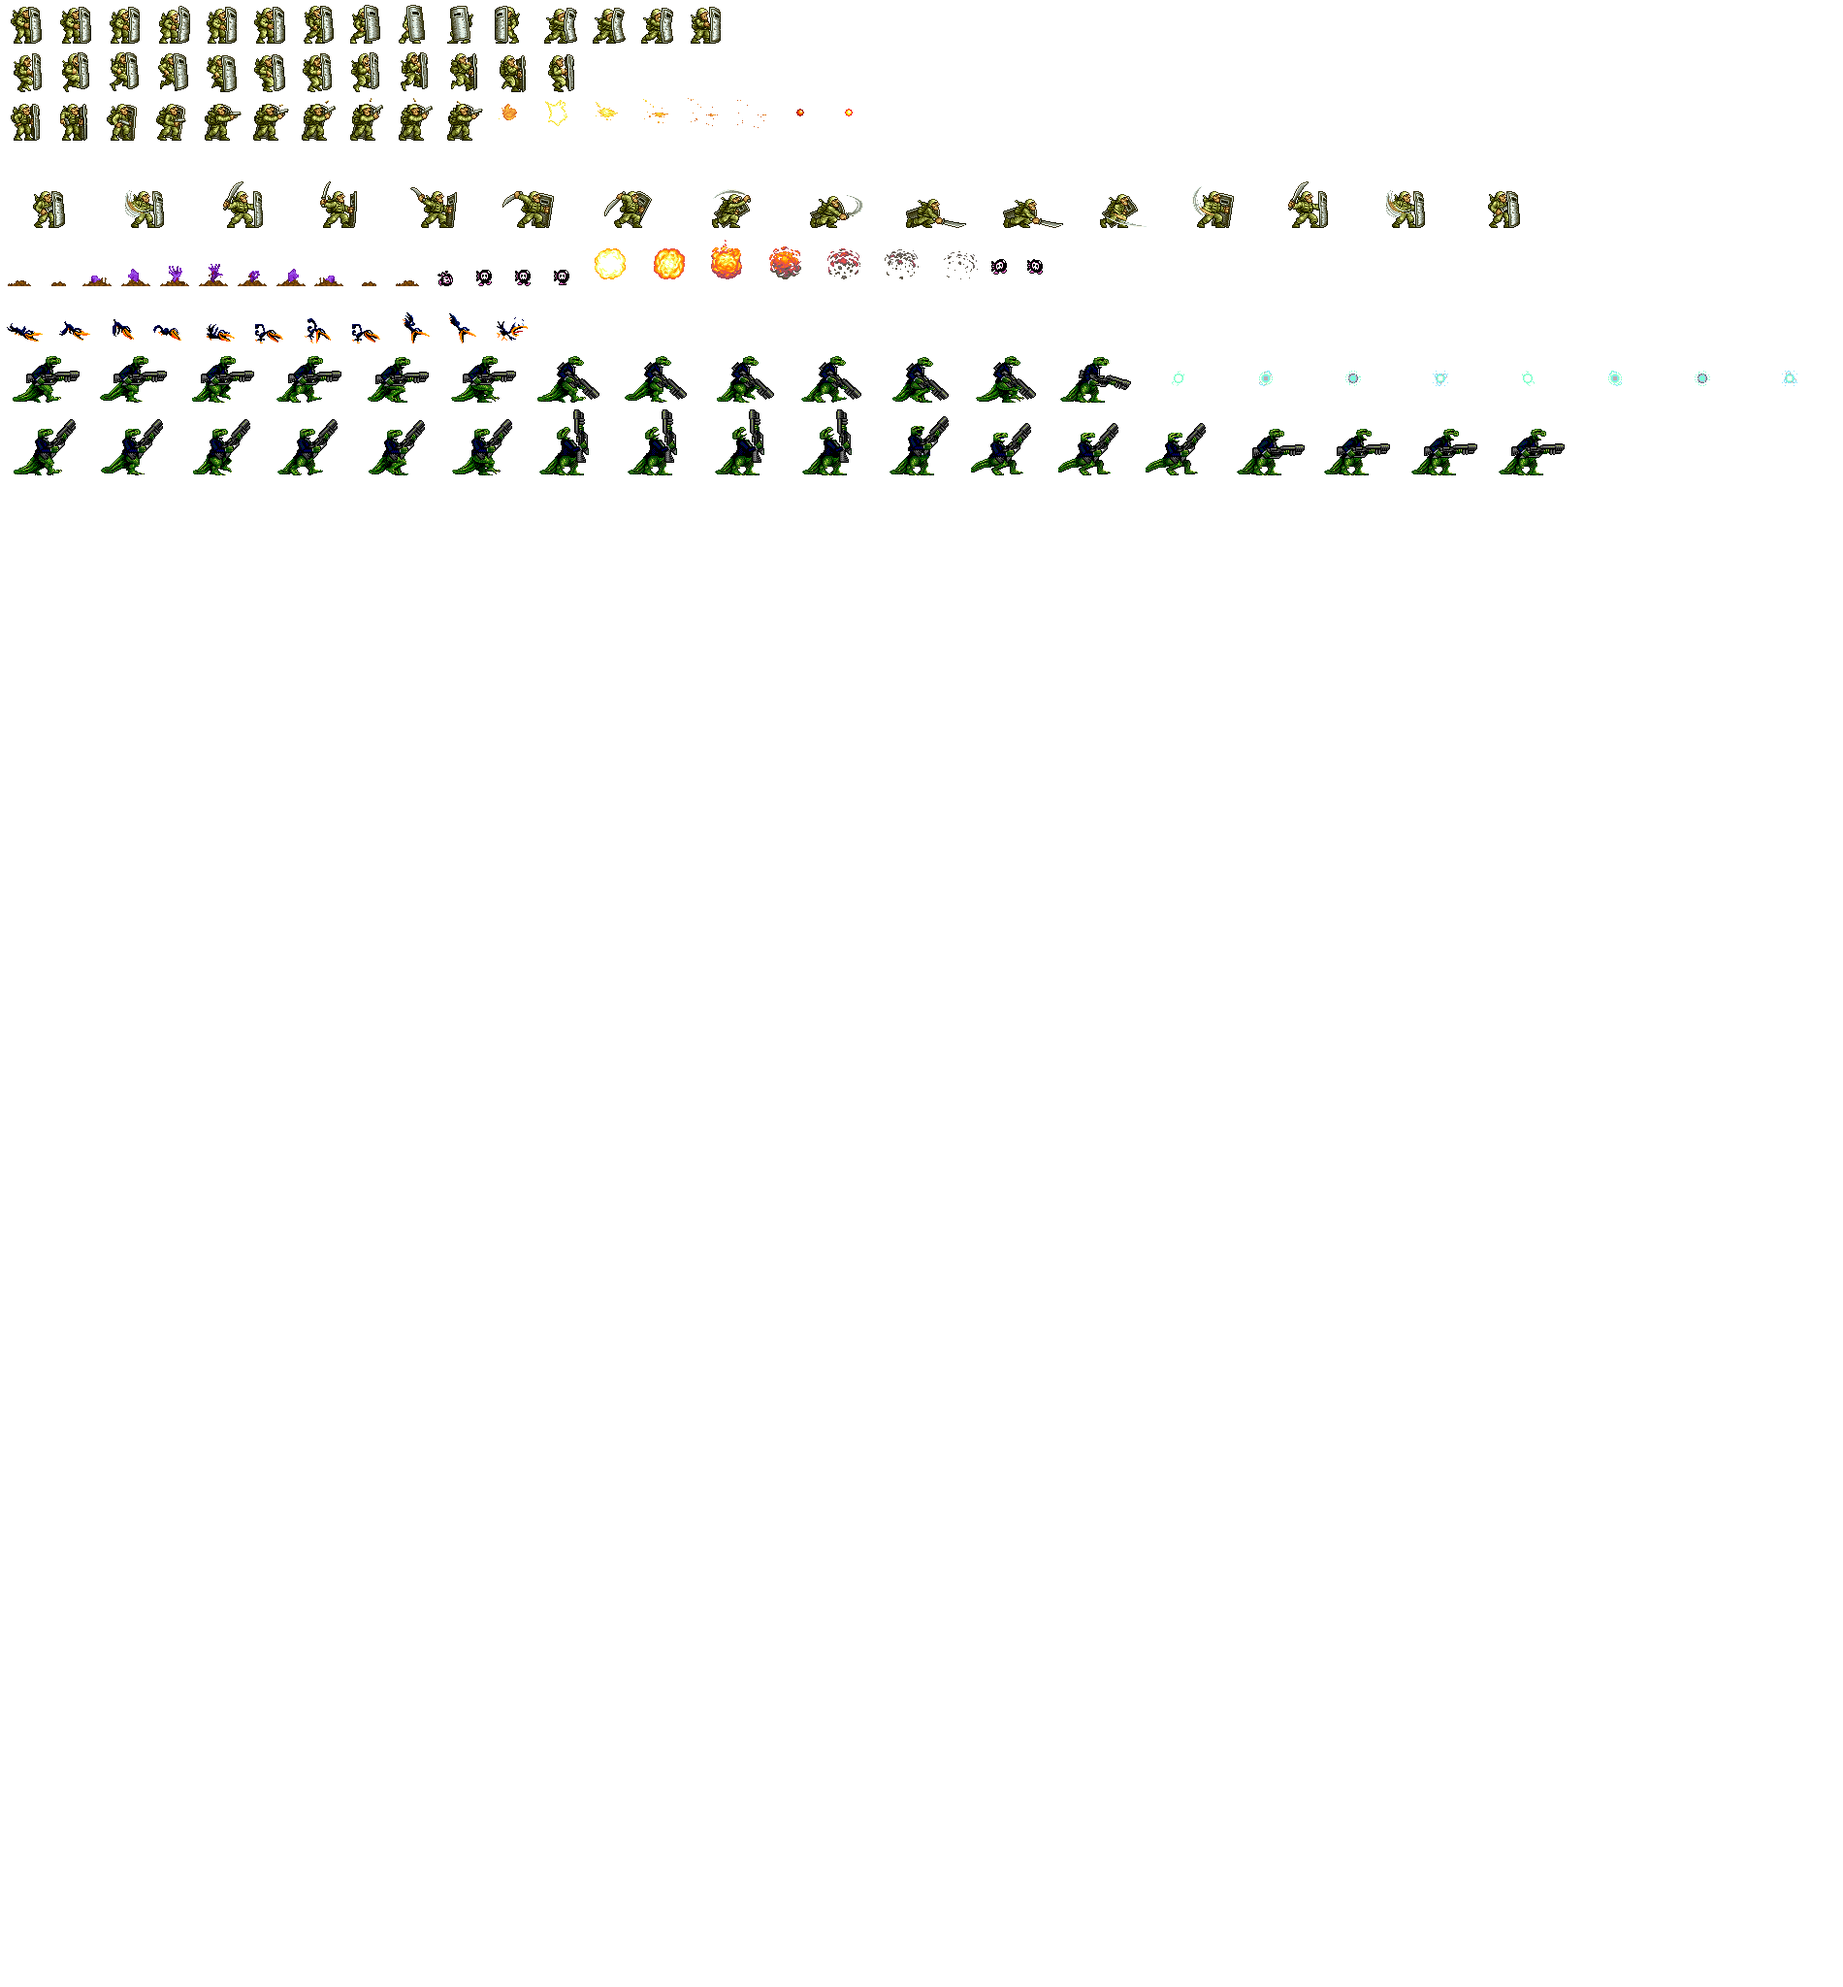
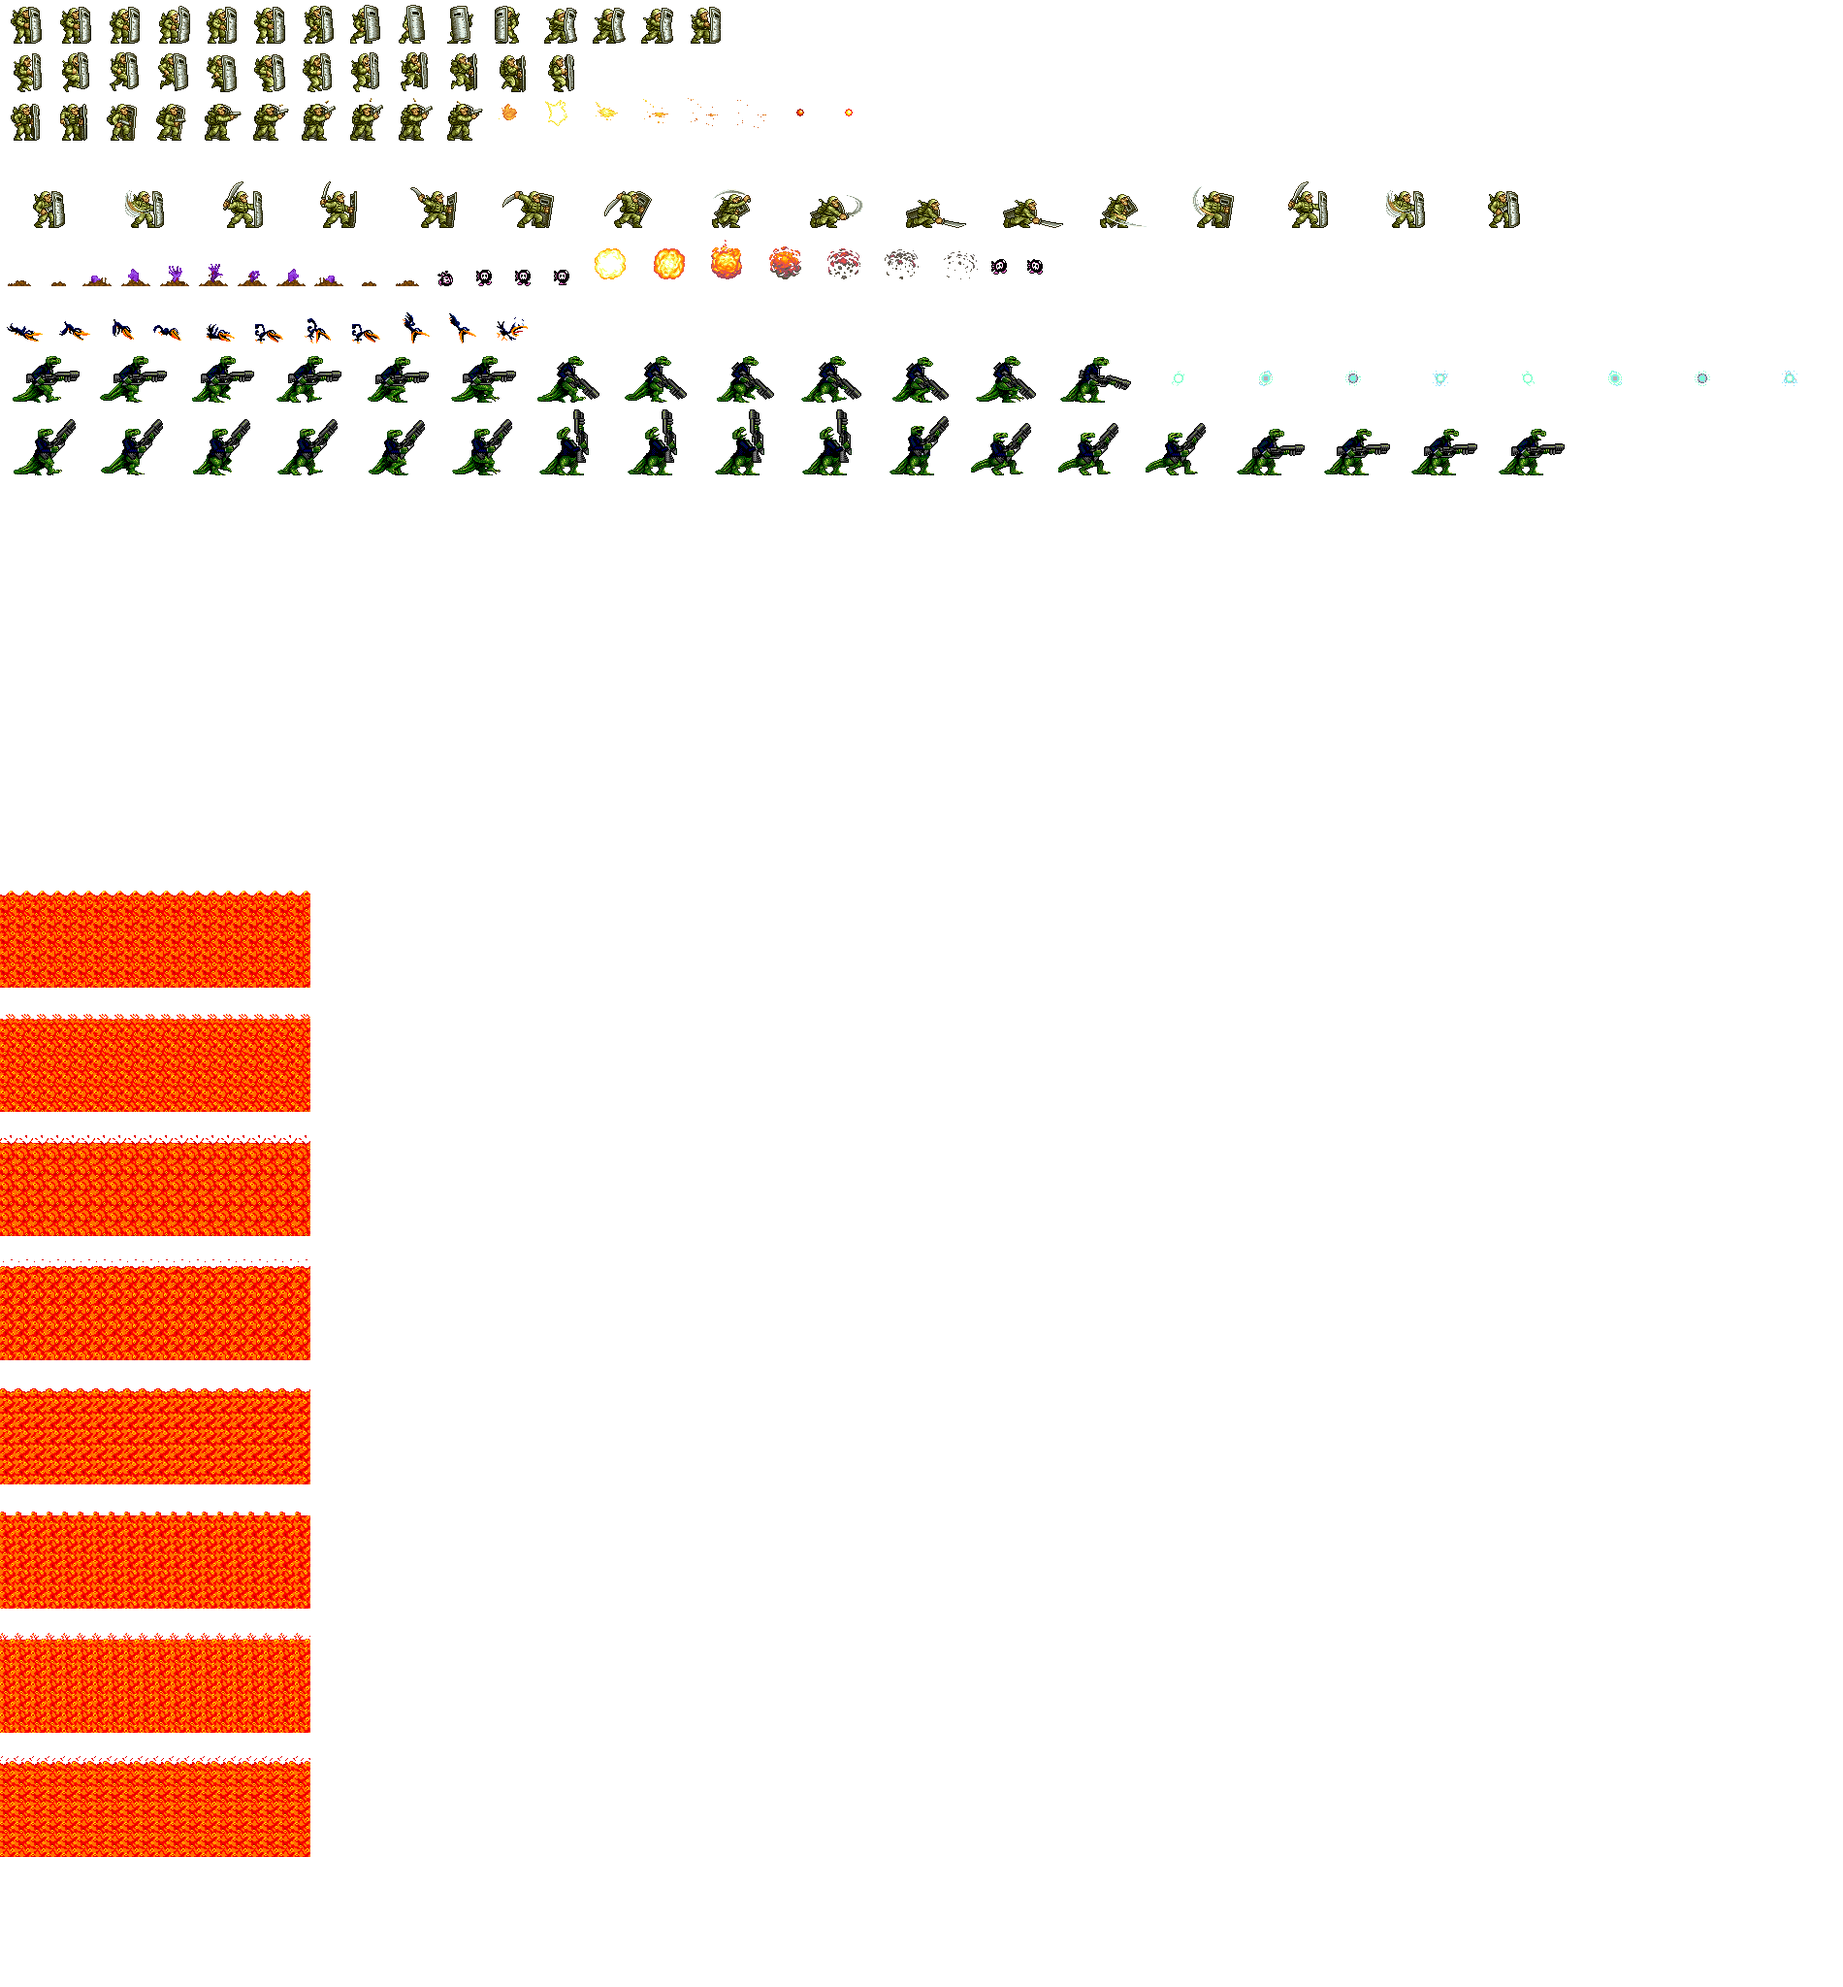
LAAAAVAAAA

Changed region(s): [[0.0, 0.4375, 0.1863, 0.9375]]

diff --git a/entities/lava.js b/entities/lava.js
@@ -1,0 +1,66 @@
+define([
+    'entity',
+    "animation",
+],function(
+    Entity,
+    Animation,
+){
+
+
+    /***********
+    game - a reference to the game in which this entity exists
+    x, y - entity's coordinates
+    removeFromWorld - a flag that denotes when to remove this entity from the game
+    ************/
+    class Lava extends Entity {
+        constructor (game, x, y, img=null, ctx=null, scale=null, spriteWidth = 64) {
+            super(game, x, y, img, ctx);
+            this.scale = scale;
+            this.spriteWidth = spriteWidth;
+            this.spriteHeight = 128;
+            this.centerX = x + ((this.spriteWidth * this.scale) / 2) - this.spriteWidth;
+            this.boundWidth = this.spriteWidth*this.scale;
+            this.boundHeight = this.scale*(this.spriteHeight - 32);
+            this.boundX = this.x - this.spriteWidth;
+            this.boundY = this.y - this.spriteHeight*this.scale + 37*this.scale;
+
+            this.states = {
+                "active": true,
+                "facingRight": true,
+            };
+            this.animations = {
+                "active": new Animation(this.img, [this.spriteWidth, 128], 7, 1, 5, 8, true, this.scale),
+            };
+            this.animation = this.animations.active;
+        }
+        
+        /*Updates the entity each game loop. i.e. what does this entity do? */
+        update () {
+            super.update();
+        }
+
+        drawOutline(ctx) {
+            ctx.beginPath();
+            ctx.strokeStyle = "green";
+            ctx.rect(this.boundX,
+                this.boundY,
+                this.boundWidth, this.boundHeight);
+            ctx.stroke();
+            ctx.closePath();
+        }
+
+        draw(ctx) {
+            if (this.states.active)
+                this.drawImg(ctx);
+        }
+
+        drawImg(ctx) {
+
+            this.animation.drawFrame(1, ctx, this.x, this.y, this.states.facingRight);
+            this.drawOutline(ctx);
+        }
+    } 
+
+    return Lava;
+});
+

diff --git a/core.js b/core.js
@@ -21,6 +21,7 @@ define([
     "hurtbox",
     "item",
     "hand",
+    "lava",
 
 ], function(
     AssetManager,
@@ -45,6 +46,7 @@ define([
     Hurtbox,
     Item,
     Hand,
+    Lava,
 ) {
 
     let init = function() {
@@ -128,10 +130,12 @@ define([
         //***LEVEL TWO***
         //gameEngine.addEntity(new Hand(gameEngine, 1885, 1350, ASSET_MANAGER.getAsset("img/Enemies.png"), ctx));
         //gameEngine.addEntity(new Dino(gameEngine, 1960, 984, ASSET_MANAGER.getAsset("img/Enemies.png"), ctx, 3, 90, 60, 400, 250));
-        gameEngine.addEntity(new Crow(gameEngine, 2200, 1750, ASSET_MANAGER.getAsset("img/Enemies.png"), ctx));
-        gameEngine.addEntity(new Crow(gameEngine, 1960, 984, ASSET_MANAGER.getAsset("img/Enemies.png"), ctx));
-        gameEngine.addEntity(new Crow(gameEngine, 2700, 1200, ASSET_MANAGER.getAsset("img/Enemies.png"), ctx));
+        //gameEngine.addEntity(new Crow(gameEngine, 2200, 1750, ASSET_MANAGER.getAsset("img/Enemies.png"), ctx));
+        //gameEngine.addEntity(new Crow(gameEngine, 1960, 984, ASSET_MANAGER.getAsset("img/Enemies.png"), ctx));
+        //gameEngine.addEntity(new Crow(gameEngine, 2700, 1200, ASSET_MANAGER.getAsset("img/Enemies.png"), ctx));
         //gameEngine.addEntity(new Soldier_Shield(gameEngine, 1300, 1440, ASSET_MANAGER.getAsset("img/Enemies.png"), ctx));
+        gameEngine.addEntity(new Lava(gameEngine, 700, 1440 + (96 * 3 - 6 * 3), ASSET_MANAGER.getAsset("img/Enemies.png"), ctx, 3, 64)); //96*3 - 6*3 aligns with floor
+        gameEngine.addEntity(new Lava(gameEngine, 1450, 1440 + (96 * 3 - 6 * 3), ASSET_MANAGER.getAsset("img/Enemies.png"), ctx, 3, 320)); //96*3 - 6*3 aligns with floor
         
         gameEngine.addEntity(hud);
         gameEngine.init(ctx);

diff --git a/entities/hero.js b/entities/hero.js
@@ -7,6 +7,7 @@ define([
     "soldier-shield",
     "enemy",
     "hurtbox",
+    "lava",
 ], function (
     Actor,
     Animation,
@@ -16,6 +17,7 @@ define([
     Soldier_Shield,
     Enemy,
     Hurtbox,
+    Lava,
 ){
 
 
@@ -326,6 +328,8 @@ define([
                 this.clearStates();
                 this.states.dead = true;
                 this.states.framelocked = true;
+                this.gravity = 0;
+                this.yVelocity = 0;
             }
         }
 
@@ -413,7 +417,14 @@ define([
                 }
                 //console.log(`${this.name} colliding with ${other.name} from ${direction}`);
             }
-
+            if (other instanceof Lava && !this.states.dead) {
+                this.clearStates();
+                this.health = 0;
+                this.states.stunned = true;
+                this.states.framelocked = true;
+                this.boundY = other.boundY - this.boundHeight;
+                this.y = this.boundY + this.boundHeight - 5;
+            }
             if (this.damageCooldownTimer <= 0 && !this.states.dead && !this.states.stunned) { //If Hero can take damage, check if...
                 if (other instanceof Enemy) {
                     if (other.damage > 0) {

diff --git a/entities/entity.js b/entities/entity.js
@@ -39,7 +39,7 @@ define([
 
         }
  
-        changePos(x, y) {
+        changePos(x, y) {//used in various actor classes, and can be used in the moving terrain class. (hence this being in Entity)
             this.x += x;
             this.boundX += x;
             this.y += y;
@@ -64,7 +64,7 @@ define([
         /* Draws this entity. Called every cycle of the game engine. */
         draw (ctx) {
             if (this.game.showOutlines && this.boundX) {
-                //drawOutline(ctx)
+                drawOutline(ctx);
             }
             if (this.img) {
                 this.animation.drawFrame(this.clockTick, ctx, this.x, this.y, true);

diff --git a/main.js b/main.js
@@ -38,6 +38,7 @@ require.config({
         "item": "entities/items/item",
         "bomb": "entities/bomb",
         "hand": "entities/hand",
+        "lava": "entities/lava",
     },
 });
 
